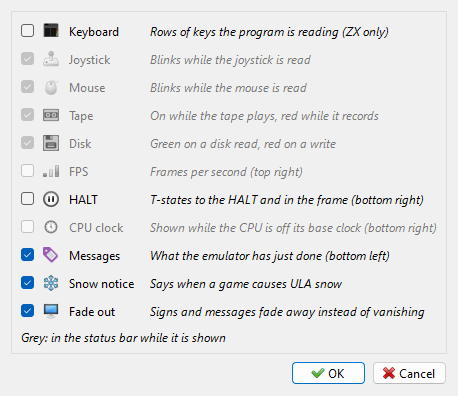
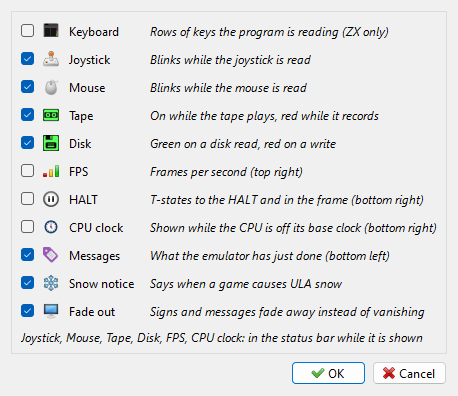
manual: the indicators the status bar shows are over the picture in fullscreen; the window's picture

diff --git a/docs/manual/options-appearance.md b/docs/manual/options-appearance.md
@@ -41,8 +41,8 @@ what is drawn over the picture. Tick the ones you want; **OK** keeps them for th
 
 **Joystick**, **Mouse**, **Tape**, **Disk**, **FPS** and **CPU clock** are drawn on the
 picture only while the status bar is hidden; with the status bar shown, they are in the
-status bar instead (see [Status bar](main-window.md#status-bar)), and grey in the window
-while **Status bar** is ticked.
+status bar instead (see [Status bar](main-window.md#status-bar)). Fullscreen hides the
+status bar, so there they are over the picture.
 
 In the top right corner a sign also shows the speed mode, in the manner of a video
 recorder: pause, rewind with how many seconds back, fast mode, fast forward or slow
